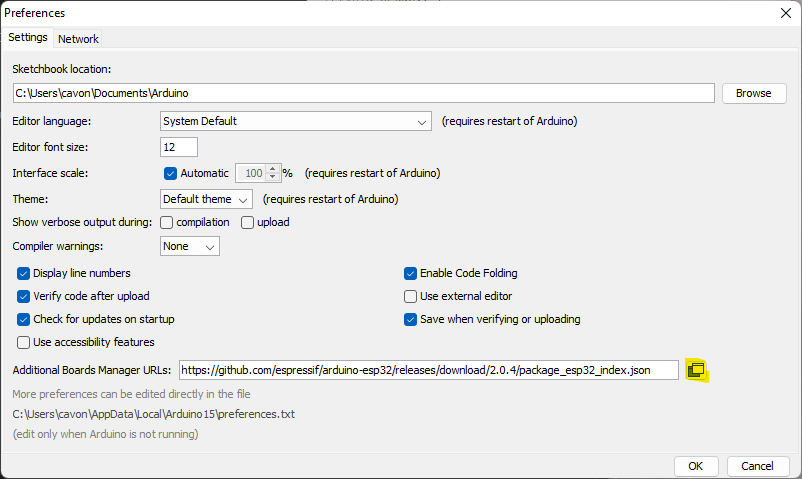
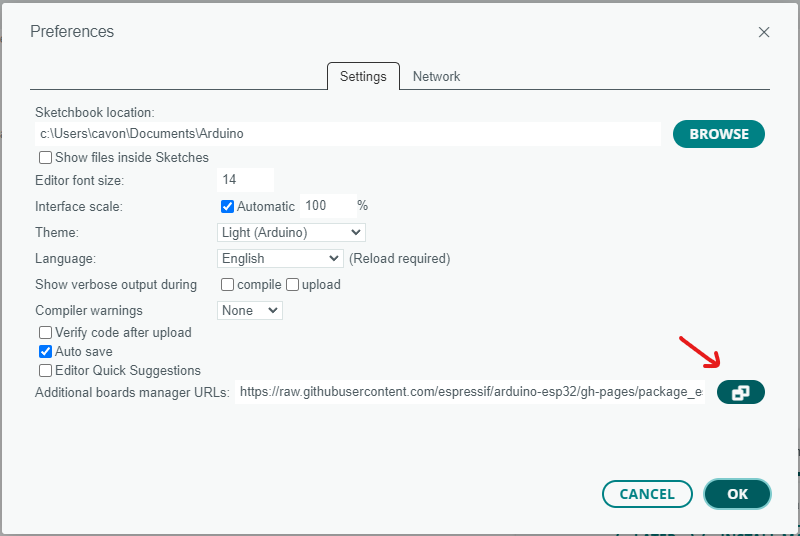
update to Arduino IDE 2.0

diff --git a/tamc_termod_s3/variant.cpp b/tamc_termod_s3/variant.cpp
@@ -18,21 +18,7 @@ bool getChargingState() {
   return !digitalRead(CHG);
 }
 
-void (*__onChargeStart__)();
-void (*__onChargeEnd__)();
-void setOnChargeStart(void (*func)()) { __onChargeStart__ = func; }
-void setOnChargeEnd(void (*func)()) { __onChargeEnd__ = func; }
-
-void ARDUINO_ISR_ATTR chargeIsr() {
-  if (getChargingState()) {
-    __onChargeStart__();
-  } else {
-    __onChargeEnd__();
-  }
-}
-
 extern "C" void initVariant(void){
   pinMode(CHG, INPUT_PULLUP);
-  attachInterrupt(CHG, chargeIsr, CHANGE);
   analogReadResolution(12);
 }

diff --git a/docs/source/arduino-usage/getting-started.rst b/docs/source/arduino-usage/getting-started.rst
@@ -1,10 +1,10 @@
-Getting Started for Arduino
+Getting Started with Arduino
 =============================
 
 Download Arduino IDE
 ------------------------
 
-.. note:: If you already installed Arduino IDE, skip this step
+.. note:: If you already installed Arduino IDE, skip this step. This tutorial is based on Arduino IDE 2.0.0, if yours is older, it is recommended to update.
 
 1. Turn to `Arduino IDE download page`_, download and install Arduino IDE.
 
@@ -13,9 +13,9 @@ Download Arduino IDE
 Add ESP32 Series
 ------------------------
 
-.. note:: If you already added ESP32, skip this step
+.. note:: If you have already added the latest ESP32 core, skip this step, or update it to the latest.
 
-Open Arduino IDE. Click top left **File** menu, select **Preference**.
+Open Arduino IDE. Click top left **File** menu, select **Preference**. Or for Mac, Click **Arduino** menu, select **Preference**.
 
 .. image:: images/arduino-usage-getting-started-open-preference.png
 
@@ -31,11 +31,11 @@ and Click **OK**
 
 .. image:: images/arduino-usage-getting-started-open-additional-boards-manager-urls-ok.png
 
-Close **Preference** window, go to **Tools** => **Board** => **Boards Manger..** open Boards Manger Page.
+Close **Preference** window, Click Board Manager icon on the left
 
 .. image:: images/arduino-usage-getting-started-open-boards-manager.png
 
-On **Boards Manger** page, search for ``ESP32`` and click **Install** button.
+On **Boards Manger** side bar, search for ``ESP32`` and click **Install** button. Or update it if it's not the latest version.
 
 .. image:: images/arduino-usage-getting-started-open-boards-manager-install.png
 
@@ -45,11 +45,7 @@ Install FT62X6 Library
 
 This is a library for touch screen.
 
-Open Arduino IDE. Click **Sketch** menu, select **clude Library** then **Manage Libraries..**.
-    
-.. image:: images/arduino-usage-getting-started-open-manage-libraries.png
-    
-On **Manage Libraries** page, search for ``TAMC_FT62X6`` and click **Install** button.
+Open Arduino IDE. Click Library Manager icon on the left, search for ``TAMC_FT62X6`` and click **Install** button. Or update it if it's not the latest version.
     
 .. image:: images/arduino-usage-getting-started-open-manage-libraries-install-TAMC_FT62X6.png
 
@@ -61,17 +57,13 @@ This is a library for TFT display. There are also other options, but we recomman
 
 **Install**
 
-Open Arduino IDE. Click **Sketch** menu, select **clude Library** then **Manage Libraries..**.
-    
-.. image:: images/arduino-usage-getting-started-open-manage-libraries.png
-    
-On **Manage Libraries** page, search for ``TFT_eSPI`` and click **Install** button.
+Search again for ``TFT_eSPI`` and click **Install** button. Or update it if it's not the latest version.
     
 .. image:: images/arduino-usage-getting-started-open-manage-libraries-install-TFT_eSPI.png
 
 **Setup for TAMC Termod S3**
 
-After install TFT_eSPI Library, open File Explorer and go to Arduino library folder. Usually is under the following folder.
+After install TFT_eSPI Library, open File Explorer and go to Arduino library folder. Usually is under the following folders. If not, checkout **Sketchbook location** in **Preference** of Arduino IDE.
 
 - For Windows: ``C:\Users\<USER>\Documents\Arduino\libraries``
 - For Mac: ``/Users/<USER>/Documents/Arduino/libraries``
@@ -94,24 +86,28 @@ Comment out the line: ``#include <User_Setup.h>``, and uncomment the line: ``#in
 
     ...
 
+Save and close the file. Download Termod S3 setup and copy it to `User_Setups` folder.
+
+:download:`Setup300_TAMC_Termod_S3.h <https://raw.githubusercontent.com/TAMCTec/termod-s3/main/Setup300_TAMC_Termod_S3.h>`
+
+Done, but no need to close the File Explorer yet, you will need it later.
+
 .. _install_lvgl:
 
 Install LVGL Library (Optional)
 -----------------------------------------
 
-`LVGL <https://lvgl.io/>`_ is an amazing GUI library, make it easy to build modern UI.
+`LVGL <https://lvgl.io/>`_ is an amazing GUI library, makes it easy to build modern UI.
 
 .. warning::
 
     Termod S3 uses SPI display, has not enough refresh rate to perfactly support LVGL. There will be some tearing when scrolling.
 
 **Install**
+  
+On **Library Manager** tab, search for ``LVGL``. Checkout if the version is 8.3.1, and click **INSTALL**. If not, select the version and click **INSTALL**.
 
-Open Arduino IDE. Click **Sketch** menu, select **clude Library** then **Manage Libraries..**.
-    
-.. image:: images/arduino-usage-getting-started-open-manage-libraries.png
-    
-On **Manage Libraries** page, search for ``LVGL`` and click **Install** button.
+.. note:: Why not the latest version? Because Termod S3 examples are develop under 8.3.1, and LVGL is under heavy development, there may be some breaking changes between versions. If you know what you are doing, you can try the latest version.
 
 .. image:: images/arduino-usage-getting-started-open-manage-libraries-install-LVGL.png
 
@@ -127,7 +123,7 @@ Open ``lvgl`` folder, and copy ``lv_conf_template.h`` file to Arduino library fo
 
 .. image:: images/arduino-usage-getting-started-copy-lv-conf-template.png
 
-Then, rename it to ``lv_conf.h``, open it with your favorate editor, and change first non-comment line ``if 0`` to ``if 1``
+Then, rename it to ``lv_conf.h``, open it with your favorate editor, and change first non-comment line ``if 0`` to ``if 1``.
 
 .. code-block:: cpp
 
@@ -161,13 +157,18 @@ Then, rename it to ``lv_conf.h``, open it with your favorate editor, and change 
 
     /*Swap the 2 bytes of RGB565 color. Useful if the display has an 8-bit int
 
+This file contains the configuration options for LVGL. You can find more information about the options in the `Configuration Reference <https://docs.lvgl.io/latest/en/html/overview/configuration.html>`_. And done for LVGL setup.
 
 Build and upload
 ---------------------
 
-Now everything is ready to build and upload. Make sure **Board** is set to ``TAMC Termod S3``.
+Now everything is ready to build and upload. Make sure **Board** is set to ``ESP32S3 Dev Module``.
+
+.. warning:: You may see there's a TAMC Termod S3 board in the list, but it's not ready yet, don't use it as for esp32 core v2.0.5, will fix it in the next version.
 
 .. image:: images/arduino-usage-getting-started-build-upload-select-board.png
+
+.. warning:: You may notice there's a more easier way to select both port and device there in the new 2.0. But it's kinda problematic, board recognition may be not resulting the correct board, and it's not easy to select the correct port. So we recommand to use the old way.
 
 .. include:: download-code.txt
 

diff --git a/docs/source/hardware.rst b/docs/source/hardware.rst
@@ -31,6 +31,11 @@ Specifications
    +----------------+-----------------------------------+
    | Mounting Holes | M2 x 4                            |
    +----------------+-----------------------------------+
+   | SD Card        | Micro SD with SPI Interface       |
+   +----------------+-----------------------------------+
+   | Buttons        | IO0 and Reset button              |
+   +----------------+-----------------------------------+
+
 
 Pinout
 ------------------------------------
@@ -139,11 +144,11 @@ JP1 and JP2 are solder pads for selecting functions.
 
 .. image:: images/termod-s3-selectable-pins-jp1.png
 
-JP1 is for selecting the micro SD card detect pin. If you need to detect the card insert, you can solder JP1 together, and reads IO47 for card detecting
+JP1 is for selecting the micro SD card detect pin. If you need to detect inserting a card, you can solder JP1 together, and reads IO47 for card detecting. IO47 will be pulled LOW when a card is inserted.
 
 .. image:: images/termod-s3-selectable-pins-jp2.png
 
-JP2 is for selecting the TFT backlight pin. If you need to control the backlight, you can solder JP2 together, and controls IO48 for backlight control.
+JP2 is for selecting the TFT backlight pin. If you need to control the backlight, you can solder JP2 together, and controls IO48 for backlight control. Set IO48 HIGH to turn on backlight.
 
 Schematic
 ----------------
@@ -157,10 +162,10 @@ which cuts of the batteries when USB is pluged in.
 
 A 3.3V power indicator LED ``D1`` to indicate the power status.
 
-A 100K/200K voltage divider devide the battery voltage to IO1 ``BAT``.
+A 100K/200K voltage divider divide the battery voltage to IO1 ``BAT``.
 
-LTC4054 Lithium-ion battery charger is used to charge the battery.
-Charge signal is connected to IO2 ``CHG``.
+LTC4054 Lithium-ion battery charger.
+Charge signal is connected to IO2 ``CHG``. LOW as charging.
 
 **ESP32 S3**
 
@@ -173,7 +178,7 @@ Simple setup for ESP32 S3 with buttons(``IO0`` and ``EN``).
 .. image:: images/termod-s3-schematic-connectors.png
 
 - J2: GPIO breakout connector: pin header 2x14 2.54mm.
-- J3: I2C SH-1.0-4P connector compatible with qwIIC and STAMMA-QT
+- J3: I2C SH-1.0-4P connector compatible with Qwiic and STEMMA QT
 - J4: Serial connector with ``IO0`` and ``EN`` for easy programming.
 - J8: Micro SD Card connector.
 
@@ -181,14 +186,14 @@ Simple setup for ESP32 S3 with buttons(``IO0`` and ``EN``).
 
 .. image:: images/termod-s3-schematic-display-and-touch-panel.png
 
-- ST7789V display with SPI interface.
-- NMOS transistor ``Q1`` to control the backlight.
-- FT6206 touch panel with I2C interface.
+- J6: ST7789V display with SPI interface.
+- J7: FT6206 touch panel with I2C interface.
+- NMOS ``Q1`` to control the backlight.
 
 
 Mechanics
 ----------------
 
-- Drawing DXF: :download:`termod-s3-v1.0.0-mechanical-drawing.dxf <mechanics/termod-s3-v1.0.0-mechanical-drawing.dxf>`
+- Drawing DXF: :download:`termod-s3-v1.0.0-mechanical-drawing.dxf <mechanics/termod-s3-v1.0.0-mechanical-drawing.DXF>`
 - Drawing PDF: :download:`termod-s3-v1.0.0-mechanical-drawing.pdf <mechanics/termod-s3-v1.0.0-mechanical-drawing.pdf>`
 - 3D Model: :download:`termod-s3-v1.0.0-3d.step <mechanics/termod-s3-v1.0.0-3d.step>`

diff --git a/docs/source/index.rst b/docs/source/index.rst
@@ -31,10 +31,14 @@ Specifications
    +----------------+-----------------------------------+
    | Mounting Holes | M2 x 4                            |
    +----------------+-----------------------------------+
+   | SD Card        | Micro SD with SPI Interface       |
+   +----------------+-----------------------------------+
+   | Buttons        | IO0 and Reset button              |
+   +----------------+-----------------------------------+
 
 
 .. toctree::
-   :maxdepth: 3
+   :maxdepth: 2
 
    hardware
    arduino-usage/index

diff --git a/docs/source/arduino-usage/examples/macro_pad.rst b/docs/source/arduino-usage/examples/macro_pad.rst
@@ -26,7 +26,7 @@ Open the file, and find the following code, change the 0 to 1 to enable the font
 
     #define LV_FONT_MONTSERRAT_22 1
 
-**Make Sure** that **USB Mode** is set to **USB OTG** under **Tools**, and remember to select ``TAMC Termod S3`` and port, then click upload.
+**Make Sure** that **USB Mode** is set to **USB OTG** under **Tools**, and Remember to select ``ESP32S3 Dev Module`` and port, then click upload.
 
 Make Icons
 ---------------

diff --git a/docs/source/arduino-usage/examples/lvgl_minimal_example.rst b/docs/source/arduino-usage/examples/lvgl_minimal_example.rst
@@ -21,7 +21,7 @@ Checkout the `LVGL documentation <https://docs.lvgl.io>`_ for more information.
 
 Open ``termod-s3/examples/lv_example/lv_example.ino`` with Arduino IDE.
 
-Remember to select ``TAMC Termod S3`` and port, then click upload.
+Remember to select ``ESP32S3 Dev Module`` and port, then click upload.
 
 `Source code <https://github.com/TAMCTec/termod-s3/tree/main/lv_minimal_example/lv_minimal_example>`_
 

diff --git a/docs/source/arduino-usage/examples/factory_test.rst b/docs/source/arduino-usage/examples/factory_test.rst
@@ -11,7 +11,7 @@ This example is for Factory test. to test every hardware is basicly working.
 
 Open ``termod-s3/examples/factory_test/factory_test.ino`` with Arduino IDE.
 
-Remember to select ``TAMC Termod S3`` and port, then click upload.
+Remember to select ``ESP32S3 Dev Module`` and port, then click upload.
 
 `Source code <https://github.com/TAMCTec/termod-s3/tree/main/examples/factory_test>`_
 

diff --git a/docs/source/arduino-usage/examples/micro_sdcard.rst b/docs/source/arduino-usage/examples/micro_sdcard.rst
@@ -11,7 +11,7 @@ This example is basic usage of micro SD Card, it's copy from ESP32 example SD. O
 
 Open ``termod-s3/examples/sd_example/sd_example.ino`` with Arduino IDE.
 
-Remember to select ``TAMC Termod S3`` and port, then click upload.
+Remember to select ``ESP32S3 Dev Module`` and port, then click upload.
 
 `Source code <https://github.com/TAMCTec/termod-s3/tree/main/examples/sd_example>`_
 

diff --git a/docs/source/arduino-usage/examples/lvgl_example.rst b/docs/source/arduino-usage/examples/lvgl_example.rst
@@ -18,7 +18,7 @@ Checkout the `LVGL documentation <https://docs.lvgl.io>`_ for more information.
 
 Open ``termod-s3/examples/lv_example/lv_example.ino`` with Arduino IDE.
 
-Remember to select ``TAMC Termod S3`` and port, then click upload.
+Remember to select ``ESP32S3 Dev Module`` and port, then click upload.
 
 
 `Source code <https://github.com/TAMCTec/termod-s3/tree/main/examples/lv_example>`_

diff --git a/docs/source/arduino-usage/examples/battery_info.rst b/docs/source/arduino-usage/examples/battery_info.rst
@@ -11,7 +11,7 @@ This example is on how to read and display battery infomations.
 
 Open ``termod-s3/examples/battery_info/battery_info.ino`` with Arduino IDE.
 
-Remember to select ``TAMC Termod S3`` and port, then click upload.
+Remember to select ``ESP32S3 Dev Module`` and port, then click upload.
 
 `Source code <https://github.com/TAMCTec/termod-s3/tree/main/examples/battery_info>`_
 

diff --git a/docs/source/arduino-usage/examples/draw.rst b/docs/source/arduino-usage/examples/draw.rst
@@ -16,7 +16,7 @@ With this example, you can learn how to use the touch screen with the display.
 
 Open ``termod-s3/examples/draw/draw.ino`` with Arduino IDE.
 
-Remember to select ``TAMC Termod S3`` and port, then click upload.
+Remember to select ``ESP32S3 Dev Module`` and port, then click upload.
 
 `Source code <https://github.com/TAMCTec/termod-s3/tree/main/examples/draw>`_
 

diff --git a/docs/source/arduino-usage/examples/crypto_ticker.rst b/docs/source/arduino-usage/examples/crypto_ticker.rst
@@ -19,7 +19,7 @@ As it require internet connection, you need to change the ssid and password to c
 
 .. image:: ./images/crypto_ticker.png
     
-Remember to select ``TAMC Termod S3`` and port, then click upload.
+Remember to select ``ESP32S3 Dev Module`` and port, then click upload.
 
 `Source code <https://github.com/TAMCTec/termod-s3/tree/main/examples/crypto_ticker>`_
 
